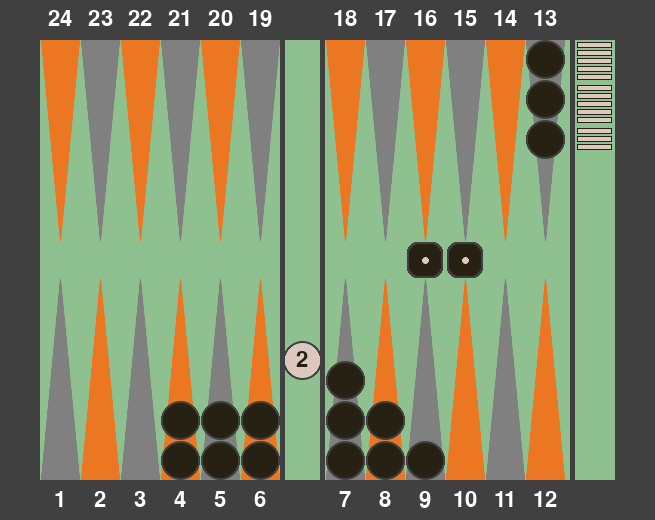
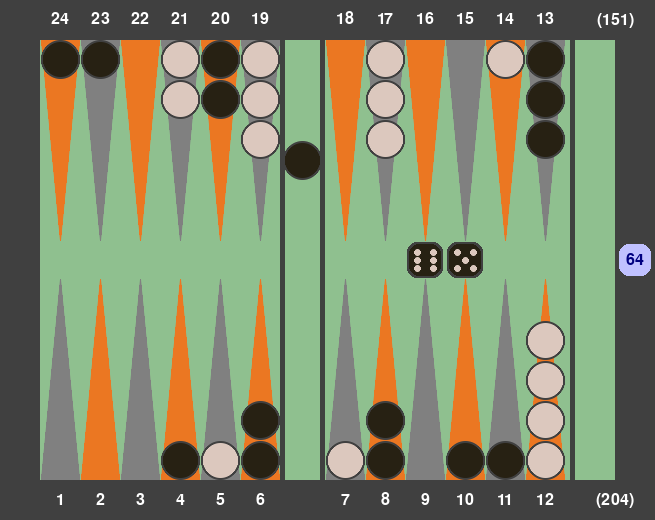
Added dble cube, pip count, buttons.

diff --git a/bgedit2/main.py b/bgedit2/main.py
@@ -20,12 +20,24 @@ LINE_COLOR = (64, 64, 64)
 CIRCLE_RADIUS = (CHECKER_SIZE - 2) // 2
 T1_COLOR = (235, 119, 34)
 T2_COLOR = (128, 128, 128)
+POS_TEXT_COLOR = (255, 255, 255)
+BUTTON_COLOR = (255, 0, 0)
+BUTTON_TEXT_COLOR = (255, 255, 255)
+DBL_CUBE_COLOR = (192, 193, 255)
+DBL_CUBE_TEXT_COLOR = (0, 0, 128)
+
+DICE_SIZE = 36
+DOT_SIZE = 4
+BUTTON_SIZE = 40
+
 BAR_0_LOC = 24
 BAR_1_LOC = 25
 DIE_0_LOC = 26
 DIE_1_LOC = 27
-DICE_SIZE = 36
-DOT_SIZE = 4
+CUBE_LOC = 28
+HAS_ROLLED_LOC = 29
+RESET_LOC = 30
+CLR_LOC = 31
 
 # Initialize the window
 screen = pygame.display.set_mode(WINDOW_SIZE)
@@ -38,7 +50,7 @@ board_image.fill(BG_COLOR)
 # Initialize a clock for controlling the frame rate
 clock = pygame.time.Clock()
 
-font = pygame.font.Font(None, 32)
+font = pygame.font.Font(None, 24)
 
 '''
 0   4
@@ -62,11 +74,30 @@ dots[4] = [0, 2, 4, 6]
 dots[5] = [0, 2, 3, 4, 6]
 dots[6] = [0, 1, 2, 4, 5, 6]
 
+cube_values = {}
+cube_values[-6] = 64
+cube_values[-5] = 32
+cube_values[-4] = 16
+cube_values[-3] = 8
+cube_values[-2] = 4
+cube_values[-1] = 2
+cube_values[0] = 64
+cube_values[1] = 2
+cube_values[2] = 4
+cube_values[3] = 8
+cube_values[4] = 16
+cube_values[5] = 32
+cube_values[6] = 64
+
 # Position data (you can customize this)
+starting_checkers = [2, 0, 0, 0, 0, -5, 0, -3, 0, 0, 0, 5, -5, 0, 0, 0, 3, 0, 5, 0, 0, 0, 0, -2, 0, 0]
+clear_checkers =    [0, 0, 0, 0, 0,  0, 0,  0, 0, 0, 0, 0,  0, 0, 0, 0, 0, 0, 0, 0, 0, 0, 0,  0, 0, 0]
+
+
 position = {}
-checkers = [2, 0, 0, 0, 0, -5, 0, -3, 0, 0, 0, 5, -5, 0, 0, 0, 3, 0, 5, 0, 0, 0, 0, -2, 0, 0]
-position["checkers"] = checkers
-position["turn"] = 1
+position["checkers"] = list(starting_checkers)
+position["turn"] = 0
+position["has_rolled"] = True
 position["dice"] = [1, 1]
 position["cube"] = 0
 locations = {}
@@ -122,6 +153,52 @@ def draw_triangle(target, x, y, delta, ndx):
     gfxdraw.filled_trigon(target, x - CIRCLE_RADIUS, y, x + CIRCLE_RADIUS, y, x, y + delta * CHECKER_SIZE * 5, color)
 
 
+def draw_button(target, x, y, text):
+    x -= BUTTON_SIZE / 2
+    y -= BUTTON_SIZE / 2
+    pygame.draw.rect(target, LINE_COLOR, pygame.Rect(x, y, BUTTON_SIZE, BUTTON_SIZE), 30, 10)
+    pygame.draw.rect(target, BUTTON_COLOR, pygame.Rect(x + 2, y + 2, BUTTON_SIZE - 4, BUTTON_SIZE - 4), 30, 10)
+    x += DICE_SIZE / 2
+    y += DICE_SIZE / 2
+    display_text(x, y, text, BUTTON_TEXT_COLOR, target)
+
+
+def draw_interface(target):
+    x = FRAME + CHECKER_SIZE / 2
+    y = FRAME + 5 * CHECKER_SIZE + CHECKER_SIZE / 2
+    draw_button(target, x, y, "R/D")
+    locations[HAS_ROLLED_LOC] = (x,y)
+
+    x += CHECKER_SIZE
+    draw_button(target, x, y, "RST")
+    locations[RESET_LOC] = (x,y)
+
+    x += CHECKER_SIZE
+    draw_button(target, x, y, "CLR")
+    locations[CLR_LOC] = (x,y)
+
+
+def draw_cube(target):
+    x = WINDOW_SIZE[0] - FRAME / 2
+    if position["cube"] == 0:
+        y = CHECKER_SIZE * 5 + CHECKER_SIZE / 2 + FRAME
+    elif position["cube"] < 0:
+        y = FRAME / 2 + CHECKER_SIZE
+    else:
+        y = WINDOW_SIZE[1] - FRAME / 2 - CHECKER_SIZE
+
+    x -= DICE_SIZE / 2
+    y -= DICE_SIZE / 2
+    pygame.draw.rect(target, LINE_COLOR, pygame.Rect(x, y, DICE_SIZE, DICE_SIZE), 30, 10)
+    pygame.draw.rect(target, DBL_CUBE_COLOR, pygame.Rect(x + 2, y + 2, DICE_SIZE - 4, DICE_SIZE - 4), 30, 10)
+    locations[CUBE_LOC] = (x, y)
+
+    x += DICE_SIZE / 2
+    y += DICE_SIZE / 2
+    value = cube_values[position["cube"]]
+    display_text(x, y, str(value), DBL_CUBE_TEXT_COLOR, target)
+
+
 def draw_die(target, x, y, color, dot_color, number):
     x -= DICE_SIZE / 2
     y -= DICE_SIZE / 2
@@ -129,7 +206,6 @@ def draw_die(target, x, y, color, dot_color, number):
     pygame.draw.rect(target, color, pygame.Rect(x + 2, y + 2, DICE_SIZE - 4, DICE_SIZE - 4), 30, 10)
     x += DICE_SIZE / 2
     y += DICE_SIZE / 2
-    # display_text(x, y, str(number), dot_color, target)
 
     for dot in dots[number]:
         dx, dy = dot_offsets[dot]
@@ -145,14 +221,25 @@ def draw_dice(target):
         die_color = C1_COLOR
         dot_color = C0_COLOR
 
-    x = FRAME + CHECKER_SIZE * 9 + BORDER + CHECKER_SIZE / 2
-    y = CHECKER_SIZE * 5 + CHECKER_SIZE / 2 + FRAME
-    draw_die(target, x, y, die_color, dot_color, position["dice"][0])
-    locations[DIE_0_LOC] = (x, y)
+    if position["has_rolled"]:
+        x = FRAME + CHECKER_SIZE * 9 + BORDER + CHECKER_SIZE / 2
+        y = CHECKER_SIZE * 5 + CHECKER_SIZE / 2 + FRAME
+        draw_die(target, x, y, die_color, dot_color, position["dice"][0])
+        locations[DIE_0_LOC] = (x, y)
 
-    x += CHECKER_SIZE
-    draw_die(target, x, y, die_color, dot_color, position["dice"][1])
-    locations[DIE_1_LOC] = (x, y)
+        x += CHECKER_SIZE
+        draw_die(target, x, y, die_color, dot_color, position["dice"][1])
+        locations[DIE_1_LOC] = (x, y)
+    else:
+        x = FRAME / 2
+        y = FRAME + CHECKER_SIZE * 5
+        draw_die(target, x, y, die_color, dot_color, 1)
+        locations[DIE_0_LOC] = (x, y)
+
+        y += CHECKER_SIZE
+        draw_die(target, x, y, die_color, dot_color, 1)
+        locations[DIE_1_LOC] = (x, y)
+
 
 def spares(side):
     spares = 15
@@ -166,8 +253,33 @@ def spares(side):
                 spares += c
     return spares
 
+
 def is_vali_position():
     return spares(0) >= 0 and spares(1) >= 0 and position["checkers"][BAR_0_LOC] >= 0 and position["checkers"][BAR_1_LOC] <= 0
+
+
+def draw_pip_count(target):
+    pip0 = 0
+    pip1 = 0
+    loc0_value = 24
+    for ndx in range(24):
+        c = position["checkers"][ndx]
+        loc1_value = 25 - loc0_value
+
+        if c > 0:
+            pip0 += c * loc0_value
+        if c < 0:
+            pip1 += abs(c) * loc1_value
+        loc0_value -= 1
+
+    pip0 += 25 * position["checkers"][BAR_0_LOC]
+    pip1 += 25 * abs(position["checkers"][BAR_1_LOC])
+
+    x = WINDOW_SIZE[0] - FRAME
+    y = FRAME / 2
+    display_text(x, y, f"({str(pip1)})", POS_TEXT_COLOR, target)
+    y = WINDOW_SIZE[1] - FRAME / 2
+    display_text(x, y, f"({str(pip0)})", POS_TEXT_COLOR, target)
 
 def draw_board(target):
     x = CHECKER_SIZE / 2 + FRAME
@@ -192,7 +304,7 @@ def draw_board(target):
     for c in range(6):
         draw_triangle(target, int(x), int(y - CIRCLE_RADIUS), 1, ndx)
         draw_slot(target, x, y, position["checkers"][ndx], 1)
-        display_text(x, slot_y, str(start_slot_num), (255, 255, 255), target)
+        display_text(x, slot_y, str(start_slot_num), POS_TEXT_COLOR, target)
         start_slot_num += slot_delta
         locations[ndx] = (x, y)
         x += CHECKER_SIZE
@@ -202,7 +314,7 @@ def draw_board(target):
     for c in range(6):
         draw_triangle(target, int(x), int(y - CIRCLE_RADIUS), 1, ndx)
         draw_slot(target, x, y, position["checkers"][ndx], 1)
-        display_text(x, slot_y, str(start_slot_num), (255, 255, 255), target)
+        display_text(x, slot_y, str(start_slot_num), POS_TEXT_COLOR, target)
         start_slot_num += slot_delta
         locations[ndx] = (x, y)
         x += CHECKER_SIZE
@@ -214,7 +326,7 @@ def draw_board(target):
     for c in range(6):
         draw_triangle(target, int(x), int(y + CIRCLE_RADIUS), -1, ndx)
         draw_slot(target, x, y, position["checkers"][ndx], -1)
-        display_text(x, slot_y, str(start_slot_num), (255, 255, 255), target)
+        display_text(x, slot_y, str(start_slot_num), POS_TEXT_COLOR, target)
         start_slot_num += slot_delta
         locations[ndx] = (x, y)
         x -= CHECKER_SIZE
@@ -224,7 +336,7 @@ def draw_board(target):
     for c in range(6):
         draw_triangle(target, int(x), int(y + CIRCLE_RADIUS), -1, ndx)
         draw_slot(target, x, y, position["checkers"][ndx], -1)
-        display_text(x, slot_y, str(start_slot_num), (255, 255, 255), target)
+        display_text(x, slot_y, str(start_slot_num), POS_TEXT_COLOR, target)
         start_slot_num += slot_delta
         locations[ndx] = (x, y)
         x -= CHECKER_SIZE
@@ -251,6 +363,10 @@ def draw_board(target):
     draw_bar(target)
 
     draw_dice(target)
+
+    draw_cube(target)
+
+    draw_pip_count(target)
 
 
 def display_text(x, y, text, color, target):
@@ -302,6 +418,23 @@ def handle_mouse_click(event):
             if position["dice"][1] < 1:
                 position["dice"][1] = 6
 
+    elif ndx == CUBE_LOC:
+        if event.button == 1 and position["cube"] < 6:
+            position["cube"] += 1
+        if event.button == 2:
+            position["cube"] = 0
+        if event.button == 3 and position["cube"] > -6:
+            position["cube"] -= 1
+
+    elif ndx == HAS_ROLLED_LOC:
+        position["has_rolled"] = not position["has_rolled"]
+
+    elif ndx == RESET_LOC:
+        position["checkers"] = list(starting_checkers)
+
+    elif ndx == CLR_LOC:
+        position["checkers"] = list(clear_checkers)
+
     else:
         hold_position = list(position["checkers"])
 
@@ -329,6 +462,8 @@ while running:
     # Draw the backgammon board
     draw_board(board_image)
     screen.blit(board_image, (0, 0))
+
+    draw_interface(screen)
 
     # Update the display
     pygame.display.flip()
